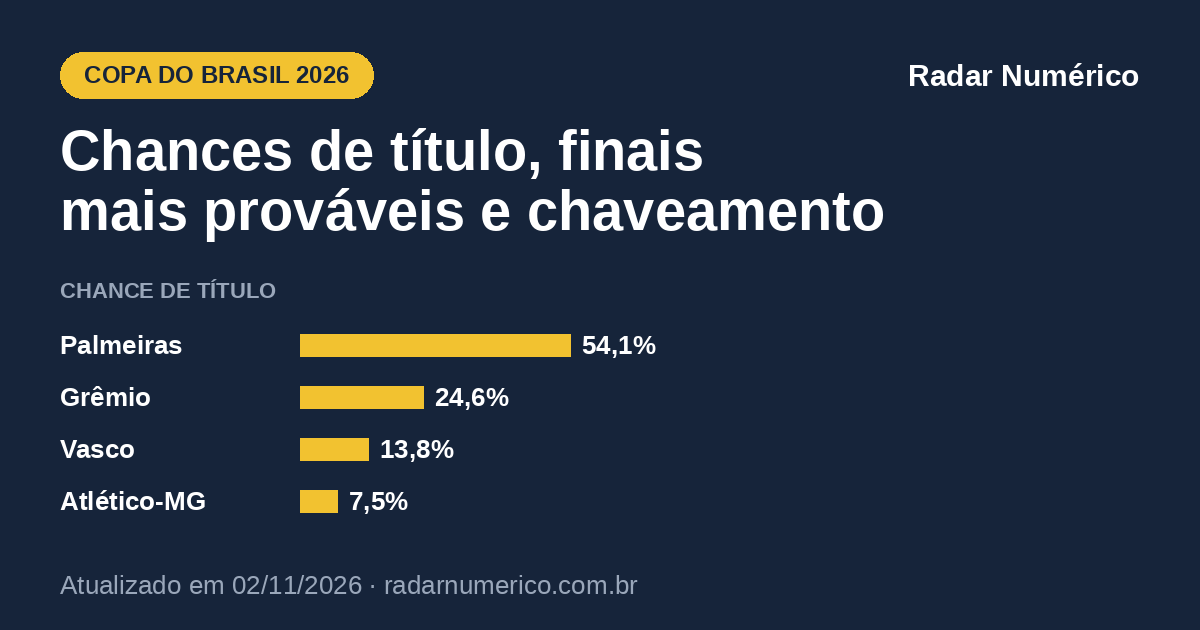
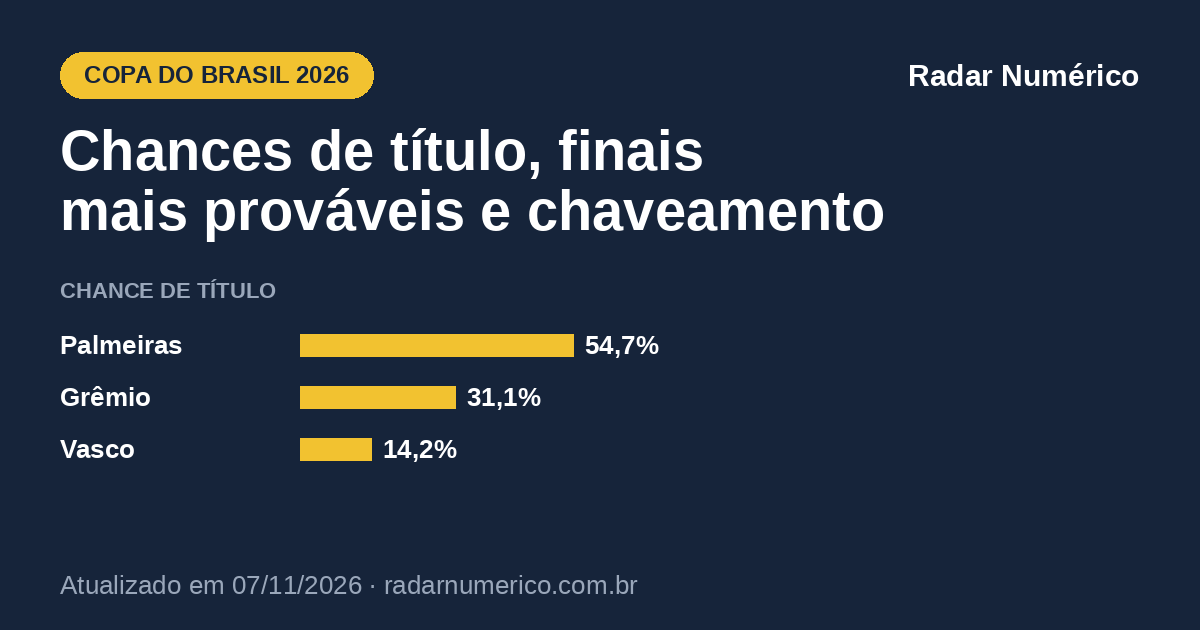
Copa do Brasil: Gremio na final (Atletico-MG 1x1 Gremio, agregado 3x1)
Claude-Session: https://claude.ai/code/session_014c9M3oiABMBaoGqnF4rTwH

diff --git a/futebol/copa-do-brasil/index.html b/futebol/copa-do-brasil/index.html
@@ -13,11 +13,11 @@
 <meta property="og:title" content="Copa do Brasil 2026: chances de título e chaveamento">
 <meta property="og:description" content="Probabilidades da Copa do Brasil 2026 por simulação: chance de título, de chegar à final, finais mais prováveis e chaveamento com as chances de cada time.">
 <meta property="og:url" content="https://radarnumerico.com.br/futebol/copa-do-brasil/">
-<meta property="og:image" content="https://radarnumerico.com.br/futebol/copa-do-brasil/og.png?v=202611021131">
+<meta property="og:image" content="https://radarnumerico.com.br/futebol/copa-do-brasil/og.png?v=202611072354">
 <meta property="og:image:width" content="1200">
 <meta property="og:image:height" content="630">
 <meta name="twitter:card" content="summary_large_image">
-<script type="application/ld+json">{"@context": "https://schema.org", "@graph": [{"@type": "WebPage", "@id": "https://radarnumerico.com.br/futebol/copa-do-brasil/", "url": "https://radarnumerico.com.br/futebol/copa-do-brasil/", "name": "Copa do Brasil 2026: chances de título e chaveamento", "description": "Probabilidades da Copa do Brasil 2026 por simulação: chance de título, de chegar à final, finais mais prováveis e chaveamento com as chances de cada time.", "inLanguage": "pt-BR", "dateModified": "2026-11-02T11:31", "isPartOf": {"@type": "WebSite", "name": "Radar Numérico", "url": "https://radarnumerico.com.br/"}, "about": {"@type": "Thing", "name": "Copa do Brasil 2026"}}, {"@type": "BreadcrumbList", "itemListElement": [{"@type": "ListItem", "position": 1, "name": "Radar Numérico", "item": "https://radarnumerico.com.br/"}, {"@type": "ListItem", "position": 2, "name": "Copa do Brasil 2026: probabilidades", "item": "https://radarnumerico.com.br/futebol/copa-do-brasil/"}]}]}</script>
+<script type="application/ld+json">{"@context": "https://schema.org", "@graph": [{"@type": "WebPage", "@id": "https://radarnumerico.com.br/futebol/copa-do-brasil/", "url": "https://radarnumerico.com.br/futebol/copa-do-brasil/", "name": "Copa do Brasil 2026: chances de título e chaveamento", "description": "Probabilidades da Copa do Brasil 2026 por simulação: chance de título, de chegar à final, finais mais prováveis e chaveamento com as chances de cada time.", "inLanguage": "pt-BR", "dateModified": "2026-11-07T23:54", "isPartOf": {"@type": "WebSite", "name": "Radar Numérico", "url": "https://radarnumerico.com.br/"}, "about": {"@type": "Thing", "name": "Copa do Brasil 2026"}}, {"@type": "BreadcrumbList", "itemListElement": [{"@type": "ListItem", "position": 1, "name": "Radar Numérico", "item": "https://radarnumerico.com.br/"}, {"@type": "ListItem", "position": 2, "name": "Copa do Brasil 2026: probabilidades", "item": "https://radarnumerico.com.br/futebol/copa-do-brasil/"}]}]}</script>
 <link rel="icon" type="image/png" href="/favicon.png">
 <link rel="preconnect" href="https://fonts.googleapis.com">
 <link rel="preconnect" href="https://fonts.gstatic.com" crossorigin>
@@ -163,8 +163,8 @@ footer.site a{color:var(--ink2)}
 <header class="pg">
   <div class="kicker">Futebol · Copa do Brasil</div>
   <h1>Copa do Brasil 2026: chances de título e chaveamento</h1>
-  <div class="selo" id="selo">Atualizado em <b>02/11/2026 às 11h31</b> · <b>Semifinais</b> · idas já disputadas</div>
-  <p class="lede">O <b>Palmeiras</b> tem <b>54,1%</b> de chance de ser campeão da Copa do Brasil 2026; o <b>Grêmio</b>, <b>24,6%</b>. A final mais provável é <b>Palmeiras × Grêmio</b> (60,4% dos cenários) — nela, o Palmeiras venceria 71,7% das vezes.</p>
+  <div class="selo" id="selo">Atualizado em <b>07/11/2026 às 23h54</b> · <b>Semifinais</b> · idas já disputadas</div>
+  <p class="lede">O <b>Palmeiras</b> tem <b>54,7%</b> de chance de ser campeão da Copa do Brasil 2026; o <b>Grêmio</b>, <b>31,1%</b>. A final mais provável é <b>Palmeiras × Grêmio</b> (76,1% dos cenários) — nela, o Palmeiras venceria 71,8% das vezes.</p>
   <div class="outras"><a href="/futebol/libertadores/">Libertadores 2026</a> <a href="/futebol/sul-americana/">Sul-Americana 2026</a> <a href="/futebol/brasileirao/">Brasileirão 2026</a></div>
 </header>
 
@@ -202,7 +202,7 @@ footer.site a{color:var(--ink2)}
 
 <div class="metod">
   <p class="marca">Radar Numérico</p>
-  <p id="rodape">Probabilidades da Copa do Brasil 2026 atualizadas em 02/11/2026 às 11h31, após os jogos de ida das semifinais. Atualizamos depois de cada jogo.</p>
+  <p id="rodape">Probabilidades da Copa do Brasil 2026 atualizadas em 07/11/2026 às 23h54, após os jogos de ida das semifinais. Atualizamos depois de cada jogo.</p>
   <p>Algoritmo desenvolvido pelo economista Augusto Pellegrini. As probabilidades vêm de 100 mil simulações do mata-mata, com a força de cada time calibrada nas odds do mercado e nos resultados da temporada — a mesma matriz de força usada no <a href="/futebol/brasileirao/">Brasileirão</a>.</p>
 </div>
 </main>
@@ -211,7 +211,7 @@ footer.site a{color:var(--ink2)}
 <div id="toast" role="status" aria-live="polite"></div>
 
 <script>
-const D = {"gerado_em":"2026-11-02T11:31","n_sim":100000,"torneios":{"copa_do_brasil":{"nome":"Copa do Brasil 2026","fase":"Semifinais","regras":"Semifinais em ida e volta, sem gol fora e sem prorrogação: empate no agregado vai direto aos pênaltis. Final em jogo único (inédito), em campo neutro; empate no tempo normal vai direto aos pênaltis (sem prorrogação).","final":{"data":"2026-12-06","hora":"","local":"Mané Garrincha, Brasília","neutro":true,"prorrogacao":false},"fontes":["https://www.cnnbrasil.com.br/esportes/futebol/copa-do-brasil/copa-do-brasil-cbf-define-datas-das-semifinais-de-2026/","https://ohoje.com/2026/09/09/final-da-copa-do-brasil-2026-sera-disputada-em-brasilia/"],"times":["Palmeiras","Vasco","Grêmio","Atlético-MG"],"resumo":{"Palmeiras":{"forca":25.5426,"propensao":1.0184,"p_final":0.7641,"p_titulo":0.5411,"p_titulo_dado_final":0.7081},"Vasco":{"forca":17.0363,"propensao":1.0082,"p_final":0.2359,"p_titulo":0.1376,"p_titulo_dado_final":0.5831},"Grêmio":{"forca":11.3896,"propensao":1.0009,"p_final":0.7903,"p_titulo":0.246,"p_titulo_dado_final":0.3113},"Atlético-MG":{"forca":15.1068,"propensao":0.977,"p_final":0.2097,"p_titulo":0.0753,"p_titulo_dado_final":0.3592}},"confrontos":[{"times":["Palmeiras","Vasco"],"jogos":[{"perna":1,"mandante":"Palmeiras","visitante":"Vasco","realizado":true,"gm":1,"gv":0,"data":"2026-11-01","hora":"16:00","local":"Nubank Parque, São Paulo"},{"perna":2,"mandante":"Vasco","visitante":"Palmeiras","realizado":false,"lam_h":1.2526,"lam_a":1.3996,"eg_m":1.2568,"eg_v":1.4042,"vm":0.3269,"e":0.2779,"vv":0.3952,"etot":2.6522,"placar_mais_provavel":"1-1","p_placar":0.1327,"xgm":1.2568,"xgv":1.4042,"data":"2026-11-08","hora":"17:00","local":"São Januário, Rio de Janeiro"}],"penaltis":null,"p_avanca":{"Palmeiras":0.7641,"Vasco":0.2359},"p_penaltis":0.1804,"p_avanca_no_tempo_normal":{"Palmeiras":0.6739,"Vasco":0.1457}},{"times":["Grêmio","Atlético-MG"],"jogos":[{"perna":1,"mandante":"Grêmio","visitante":"Atlético-MG","realizado":true,"gm":2,"gv":0,"data":"2026-11-01","hora":"18:30","local":"Arena do Grêmio, Porto Alegre"},{"perna":2,"mandante":"Atlético-MG","visitante":"Grêmio","realizado":false,"lam_h":1.6129,"lam_a":0.9133,"eg_m":1.6235,"eg_v":0.9195,"vm":0.5338,"e":0.2578,"vv":0.2083,"etot":2.5262,"placar_mais_provavel":"1-1","p_placar":0.1227,"xgm":1.6235,"xgv":0.9195,"data":"2026-11-07","hora":"18:00","local":"Arena MRV, Belo Horizonte"}],"penaltis":null,"p_avanca":{"Grêmio":0.7903,"Atlético-MG":0.2097},"p_penaltis":0.1671,"p_avanca_no_tempo_normal":{"Grêmio":0.7064,"Atlético-MG":0.1265}}],"finais":[{"times":["Palmeiras","Grêmio"],"p_par":0.6041,"vm":0.5981,"e":0.2403,"vv":0.1616,"etot":2.6331,"xg1":1.8106,"xg2":0.8329,"placar_mais_provavel":"1-0","p_placar":0.1189,"p_titulo_lado1":0.7174,"p_prorrogacao":0.2412,"p_penaltis":0.2412},{"times":["Palmeiras","Atlético-MG"],"p_par":0.16,"vm":0.5382,"e":0.2568,"vv":0.205,"etot":2.5702,"xg1":1.6552,"xg2":0.9289,"placar_mais_provavel":"1-1","p_placar":0.1224,"p_titulo_lado1":0.6731,"p_prorrogacao":0.2558,"p_penaltis":0.2558},{"times":["Vasco","Grêmio"],"p_par":0.1862,"vm":0.4569,"e":0.2721,"vv":0.271,"etot":2.6068,"xg1":1.5098,"xg2":1.1086,"placar_mais_provavel":"1-1","p_placar":0.13,"p_titulo_lado1":0.5954,"p_prorrogacao":0.2767,"p_penaltis":0.2767},{"times":["Vasco","Atlético-MG"],"p_par":0.0497,"vm":0.3931,"e":0.278,"vv":0.3289,"etot":2.5445,"xg1":1.3483,"xg2":1.2118,"placar_mais_provavel":"1-1","p_placar":0.1328,"p_titulo_lado1":0.537,"p_prorrogacao":0.2746,"p_penaltis":0.2746}],"n_sim":100000,"seed":20261017,"campeao_vice":{"Atlético-MG|Palmeiras":0.0523,"Atlético-MG|Vasco":0.023,"Grêmio|Palmeiras":0.1707,"Grêmio|Vasco":0.0753,"Palmeiras|Atlético-MG":0.1077,"Palmeiras|Grêmio":0.4334,"Vasco|Atlético-MG":0.0267,"Vasco|Grêmio":0.1109}}}};
+const D = {"gerado_em":"2026-11-07T23:54","n_sim":100000,"torneios":{"copa_do_brasil":{"nome":"Copa do Brasil 2026","fase":"Semifinais","regras":"Semifinais em ida e volta, sem gol fora e sem prorrogação: empate no agregado vai direto aos pênaltis. Final em jogo único (inédito), em campo neutro; empate no tempo normal vai direto aos pênaltis (sem prorrogação).","final":{"data":"2026-12-06","hora":"","local":"Mané Garrincha, Brasília","neutro":true,"prorrogacao":false},"fontes":["https://www.cnnbrasil.com.br/esportes/futebol/copa-do-brasil/copa-do-brasil-cbf-define-datas-das-semifinais-de-2026/","https://ohoje.com/2026/09/09/final-da-copa-do-brasil-2026-sera-disputada-em-brasilia/"],"times":["Palmeiras","Vasco","Grêmio","Atlético-MG"],"resumo":{"Palmeiras":{"forca":25.4135,"propensao":1.0184,"p_final":0.7615,"p_titulo":0.547,"p_titulo_dado_final":0.7183},"Vasco":{"forca":17.1264,"propensao":1.0082,"p_final":0.2385,"p_titulo":0.1423,"p_titulo_dado_final":0.5965},"Grêmio":{"forca":11.3298,"propensao":1.0009,"p_final":1.0,"p_titulo":0.3108,"p_titulo_dado_final":0.3108},"Atlético-MG":{"forca":15.212,"propensao":0.977,"p_final":0.0,"p_titulo":0.0,"p_titulo_dado_final":0.0}},"confrontos":[{"times":["Palmeiras","Vasco"],"jogos":[{"perna":1,"mandante":"Palmeiras","visitante":"Vasco","realizado":true,"gm":1,"gv":0,"data":"2026-11-01","hora":"16:00","local":"Nubank Parque, São Paulo"},{"perna":2,"mandante":"Vasco","visitante":"Palmeiras","realizado":false,"lam_h":1.2593,"lam_a":1.3929,"eg_m":1.2638,"eg_v":1.3978,"vm":0.3303,"e":0.2775,"vv":0.3923,"etot":2.6522,"placar_mais_provavel":"1-1","p_placar":0.1325,"xgm":1.2638,"xgv":1.3978,"data":"2026-11-08","hora":"17:00","local":"São Januário, Rio de Janeiro"}],"penaltis":null,"p_avanca":{"Palmeiras":0.7615,"Vasco":0.2385},"p_penaltis":0.182,"p_avanca_no_tempo_normal":{"Palmeiras":0.6704,"Vasco":0.1476}},{"times":["Grêmio","Atlético-MG"],"jogos":[{"perna":1,"mandante":"Grêmio","visitante":"Atlético-MG","realizado":true,"gm":2,"gv":0,"data":"2026-11-01","hora":"18:30","local":"Arena do Grêmio, Porto Alegre"},{"perna":2,"mandante":"Atlético-MG","visitante":"Grêmio","realizado":true,"gm":1,"gv":1,"data":"2026-11-07","hora":"18:00","local":"Arena MRV, Belo Horizonte"}],"penaltis":null,"p_avanca":{"Grêmio":1.0,"Atlético-MG":0.0},"p_penaltis":0.0,"p_avanca_no_tempo_normal":{"Grêmio":1.0,"Atlético-MG":0.0}}],"finais":[{"times":["Palmeiras","Grêmio"],"p_par":0.7615,"vm":0.5974,"e":0.2401,"vv":0.1624,"etot":2.6331,"xg1":1.8091,"xg2":0.8349,"placar_mais_provavel":"1-0","p_placar":0.1188,"p_titulo_lado1":0.7183,"p_prorrogacao":0.2385,"p_penaltis":0.2385},{"times":["Vasco","Grêmio"],"p_par":0.2385,"vm":0.4598,"e":0.2711,"vv":0.269,"etot":2.6068,"xg1":1.5155,"xg2":1.1034,"placar_mais_provavel":"1-1","p_placar":0.1296,"p_titulo_lado1":0.5965,"p_prorrogacao":0.276,"p_penaltis":0.276}],"n_sim":100000,"seed":20261017,"campeao_vice":{"Grêmio|Palmeiras":0.2145,"Grêmio|Vasco":0.0963,"Palmeiras|Grêmio":0.547,"Vasco|Grêmio":0.1423}}}};
 const K = 'copa_do_brasil', CURTO = 'Copa do Brasil 2026', SITE_URL = 'https://radarnumerico.com.br/futebol/copa-do-brasil/';
 const $ = s => document.querySelector(s);
 const pct = (p, c = 1) => { const v = p * 100; if (v >= 99.95) return '100%'; if (v > 0 && v < 0.05) return '<0,1%'; return v.toFixed(c).replace('.', ',') + '%'; };
